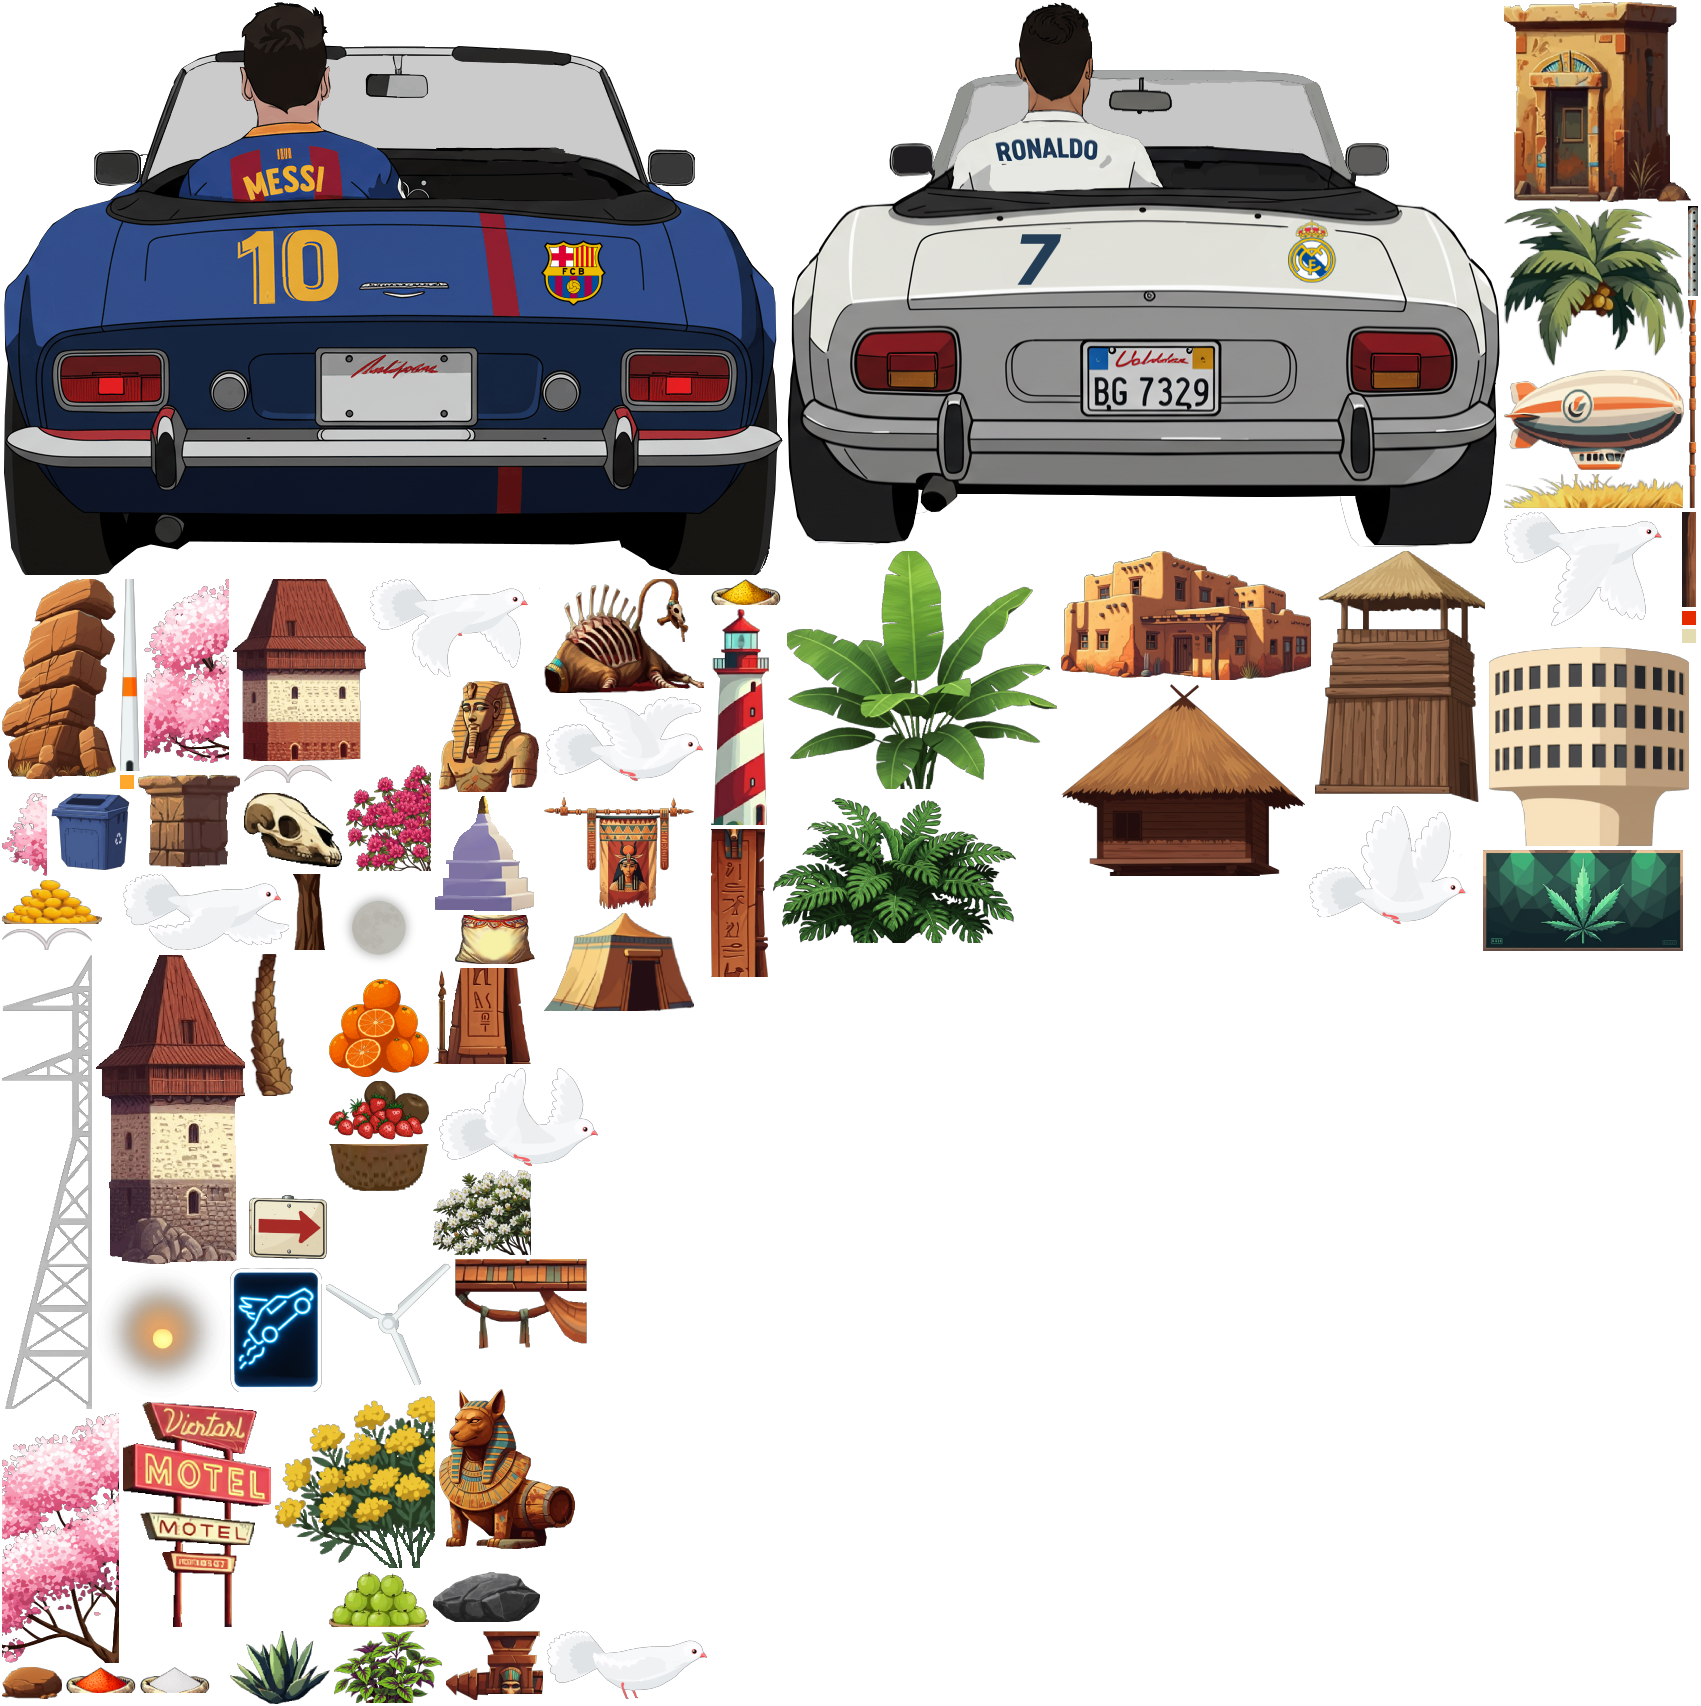
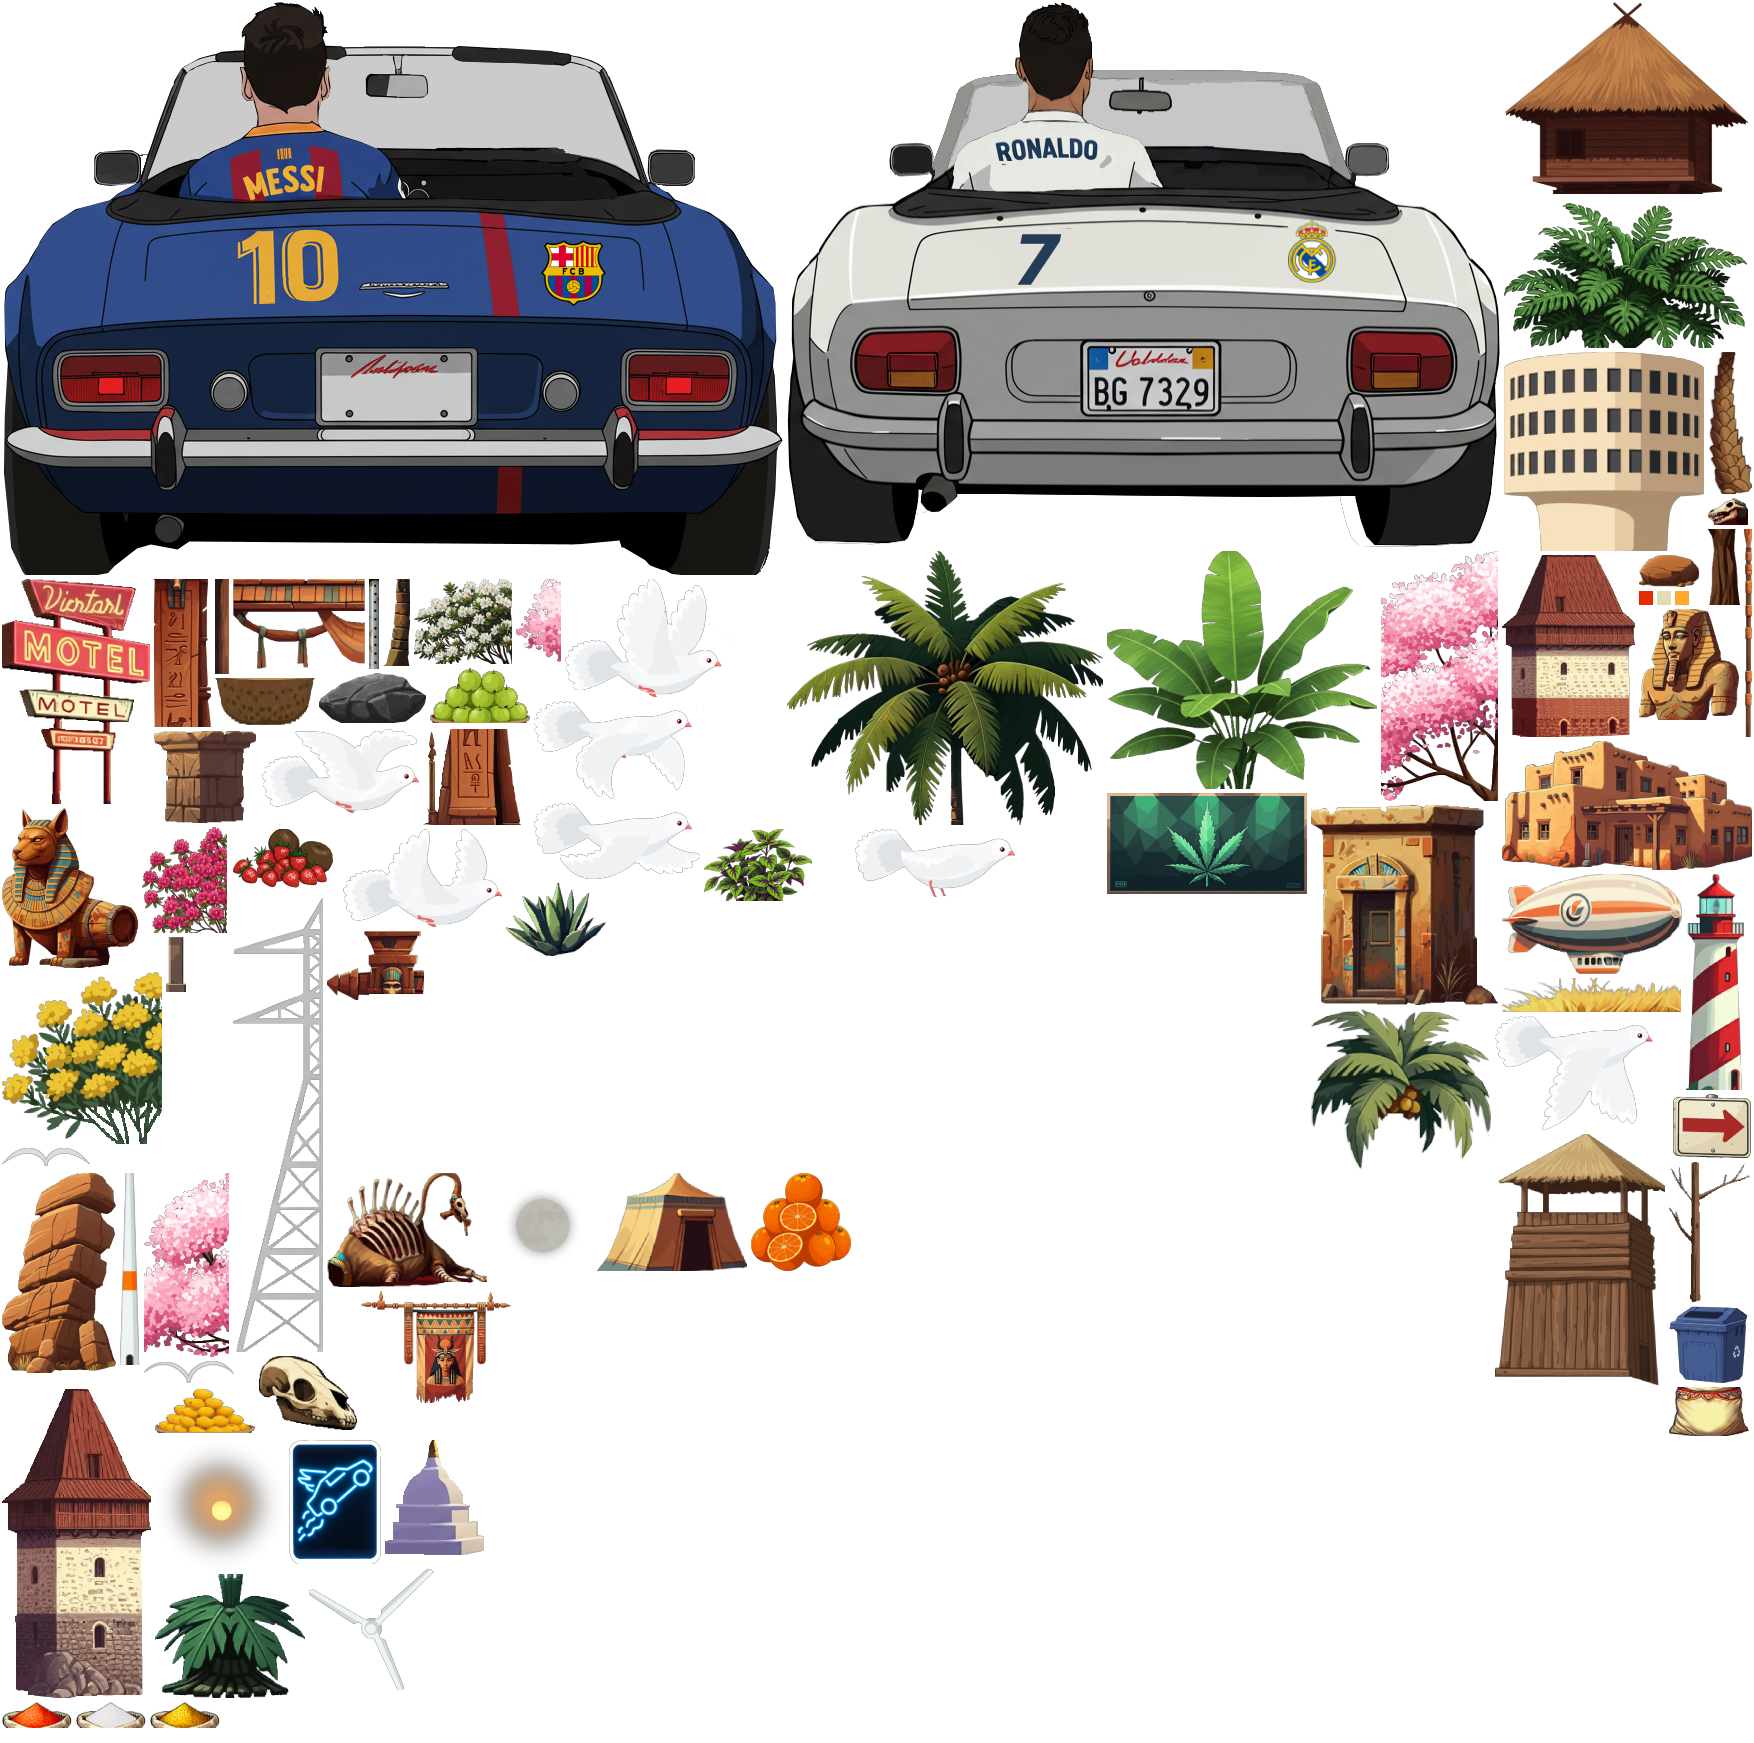
Reintroduce birds

diff --git a/src/components/TransferMarket/components/Race/entities/Birds.js b/src/components/TransferMarket/components/Race/entities/Birds.js
@@ -1,0 +1,61 @@
+import DAnim from "@lib/entities/DAnim";
+import { rand, randf, skewedRand } from "@lib/utils/math";
+
+class Bird extends DAnim {
+    scale=2
+    constructor(params, z, world) {
+        const flip = params.x > 0
+        super({
+            startFrame: 0,
+            framePrefix: "bird",
+            frameCount: 6,
+            frameStep: 0.075,
+            fadeSpeed: 0.35,  // slow fade
+            yVel: rand(300, 400),
+            xVel: randf(5, 7) * (flip ? -1 : 1),
+            active: false,
+            scale: params.s,
+            x: params.x,
+            z: z,
+            world
+        })
+        this.flip = flip
+        this.frame = "bird0"
+        this.subject = world.subject
+        this.prevSubjectX = this.subject.x
+    }
+    reset(params, z) {
+        const flip = params.x > 0
+        this.flip = flip
+        this.yVel = rand(300, 400)
+        this.xVel = randf(5, 7) * (flip ? -1 : 1)
+        this.active = false
+        this.x = params.x
+        this.z = z
+        this.alpha = 1
+        this.yOffset = 0
+        this.frame = "bird1"
+        this.frameNum = 1
+        this.nextIn = 0
+    }
+    update(dt, t) {
+        // Calculate dx based on subject's movement
+        const dx = this.subject.x - this.prevSubjectX
+        this.prevSubjectX = this.subject.x
+
+        // Only start animation and movement when subject is close enough
+        const dz = this.z - this.subject.z
+        if (dz < 2000 && dz > 50 && (this.flip ? this.subject.x > 0.45 : this.subject.x < -0.45) && dx !== 0 && Math.sign(dx) !== Math.sign(this.xVel) && !this.active) {
+            this.active = true
+            // Calculate velocity transfer based on distance
+            const t = Math.max(0, Math.min(1, (1500 - dz) / (1500 - 200)))
+            const baseXVel = this.xVel
+            this.xVel = baseXVel * (1 - t)
+            this.yVel = this.yVel + Math.abs(baseXVel) * t
+        }
+
+        super.update(dt, t)
+    }
+}
+
+export default Bird

diff --git a/lib/d3/utils/math.ts b/lib/d3/utils/math.ts
@@ -212,6 +212,7 @@ export function distributeEventStartTimes(
     return easedPositions.map(pos => +(pos * maxStart).toFixed(8));
 }
 export function getGlobalBBox(element: SVGGraphicsElement): DOMRect {
+    if (!element.getBBox) return element.getBoundingClientRect()
     const bbox = element.getBBox();
     const ctm = element.getCTM();
 
